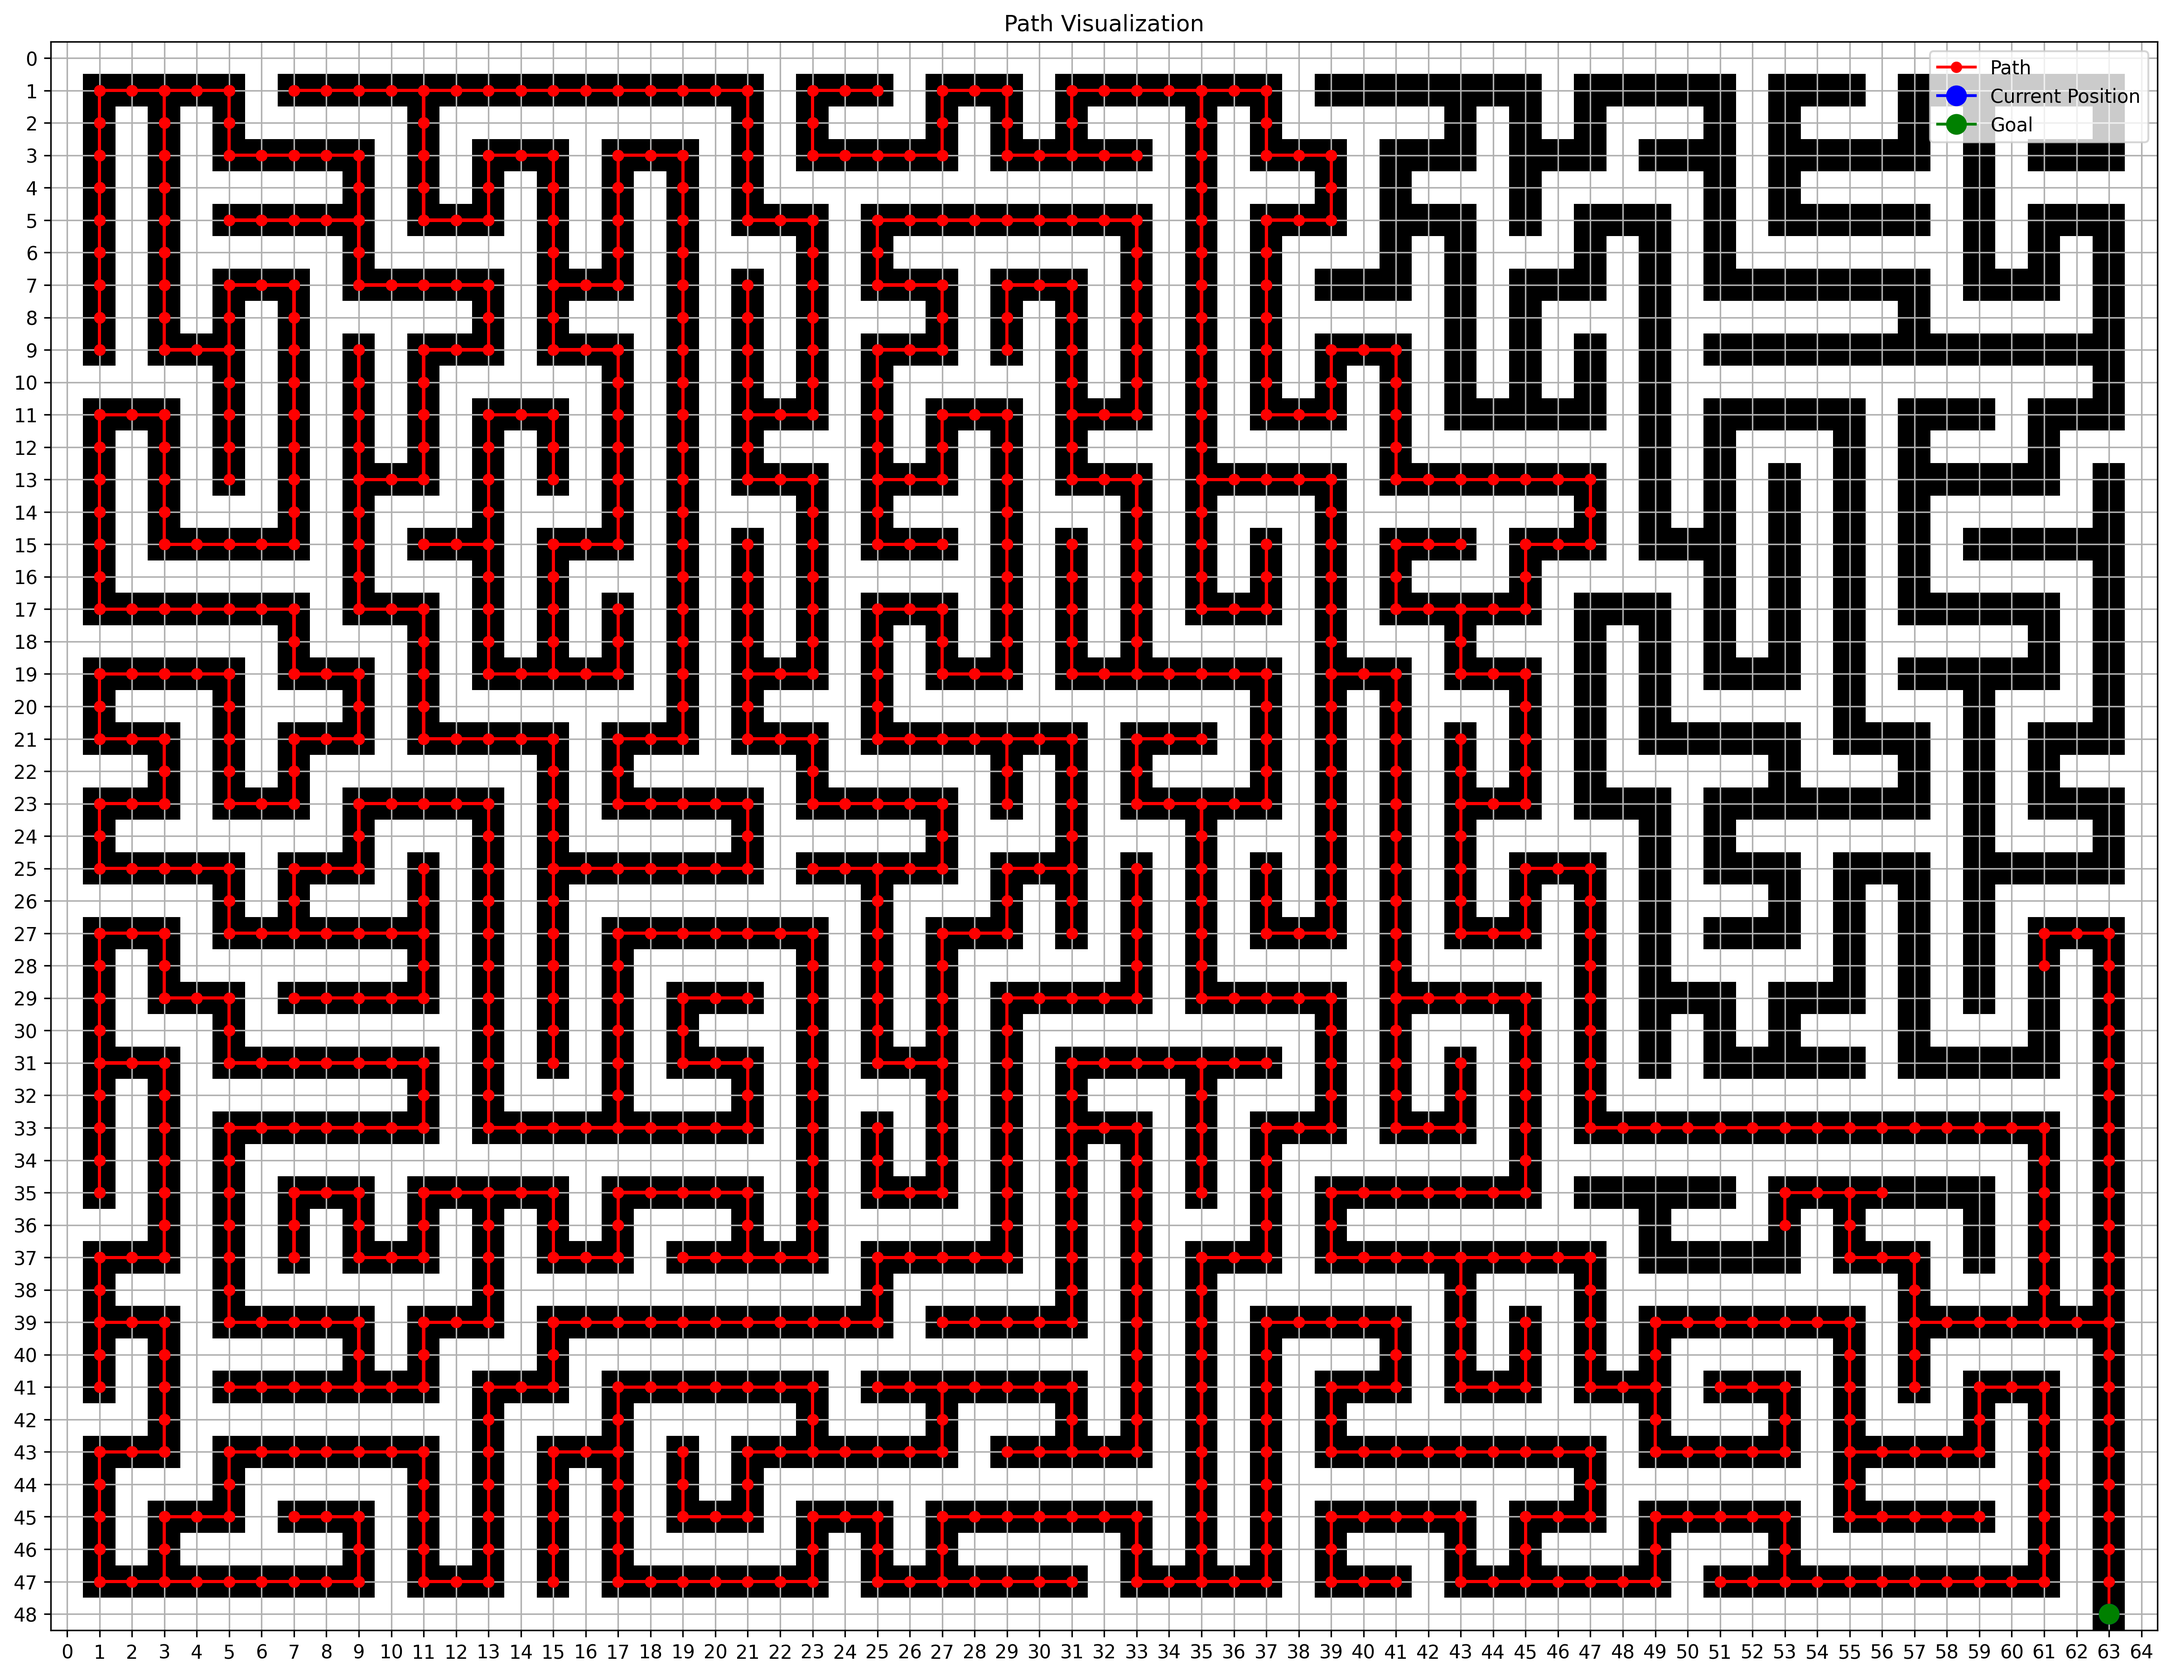
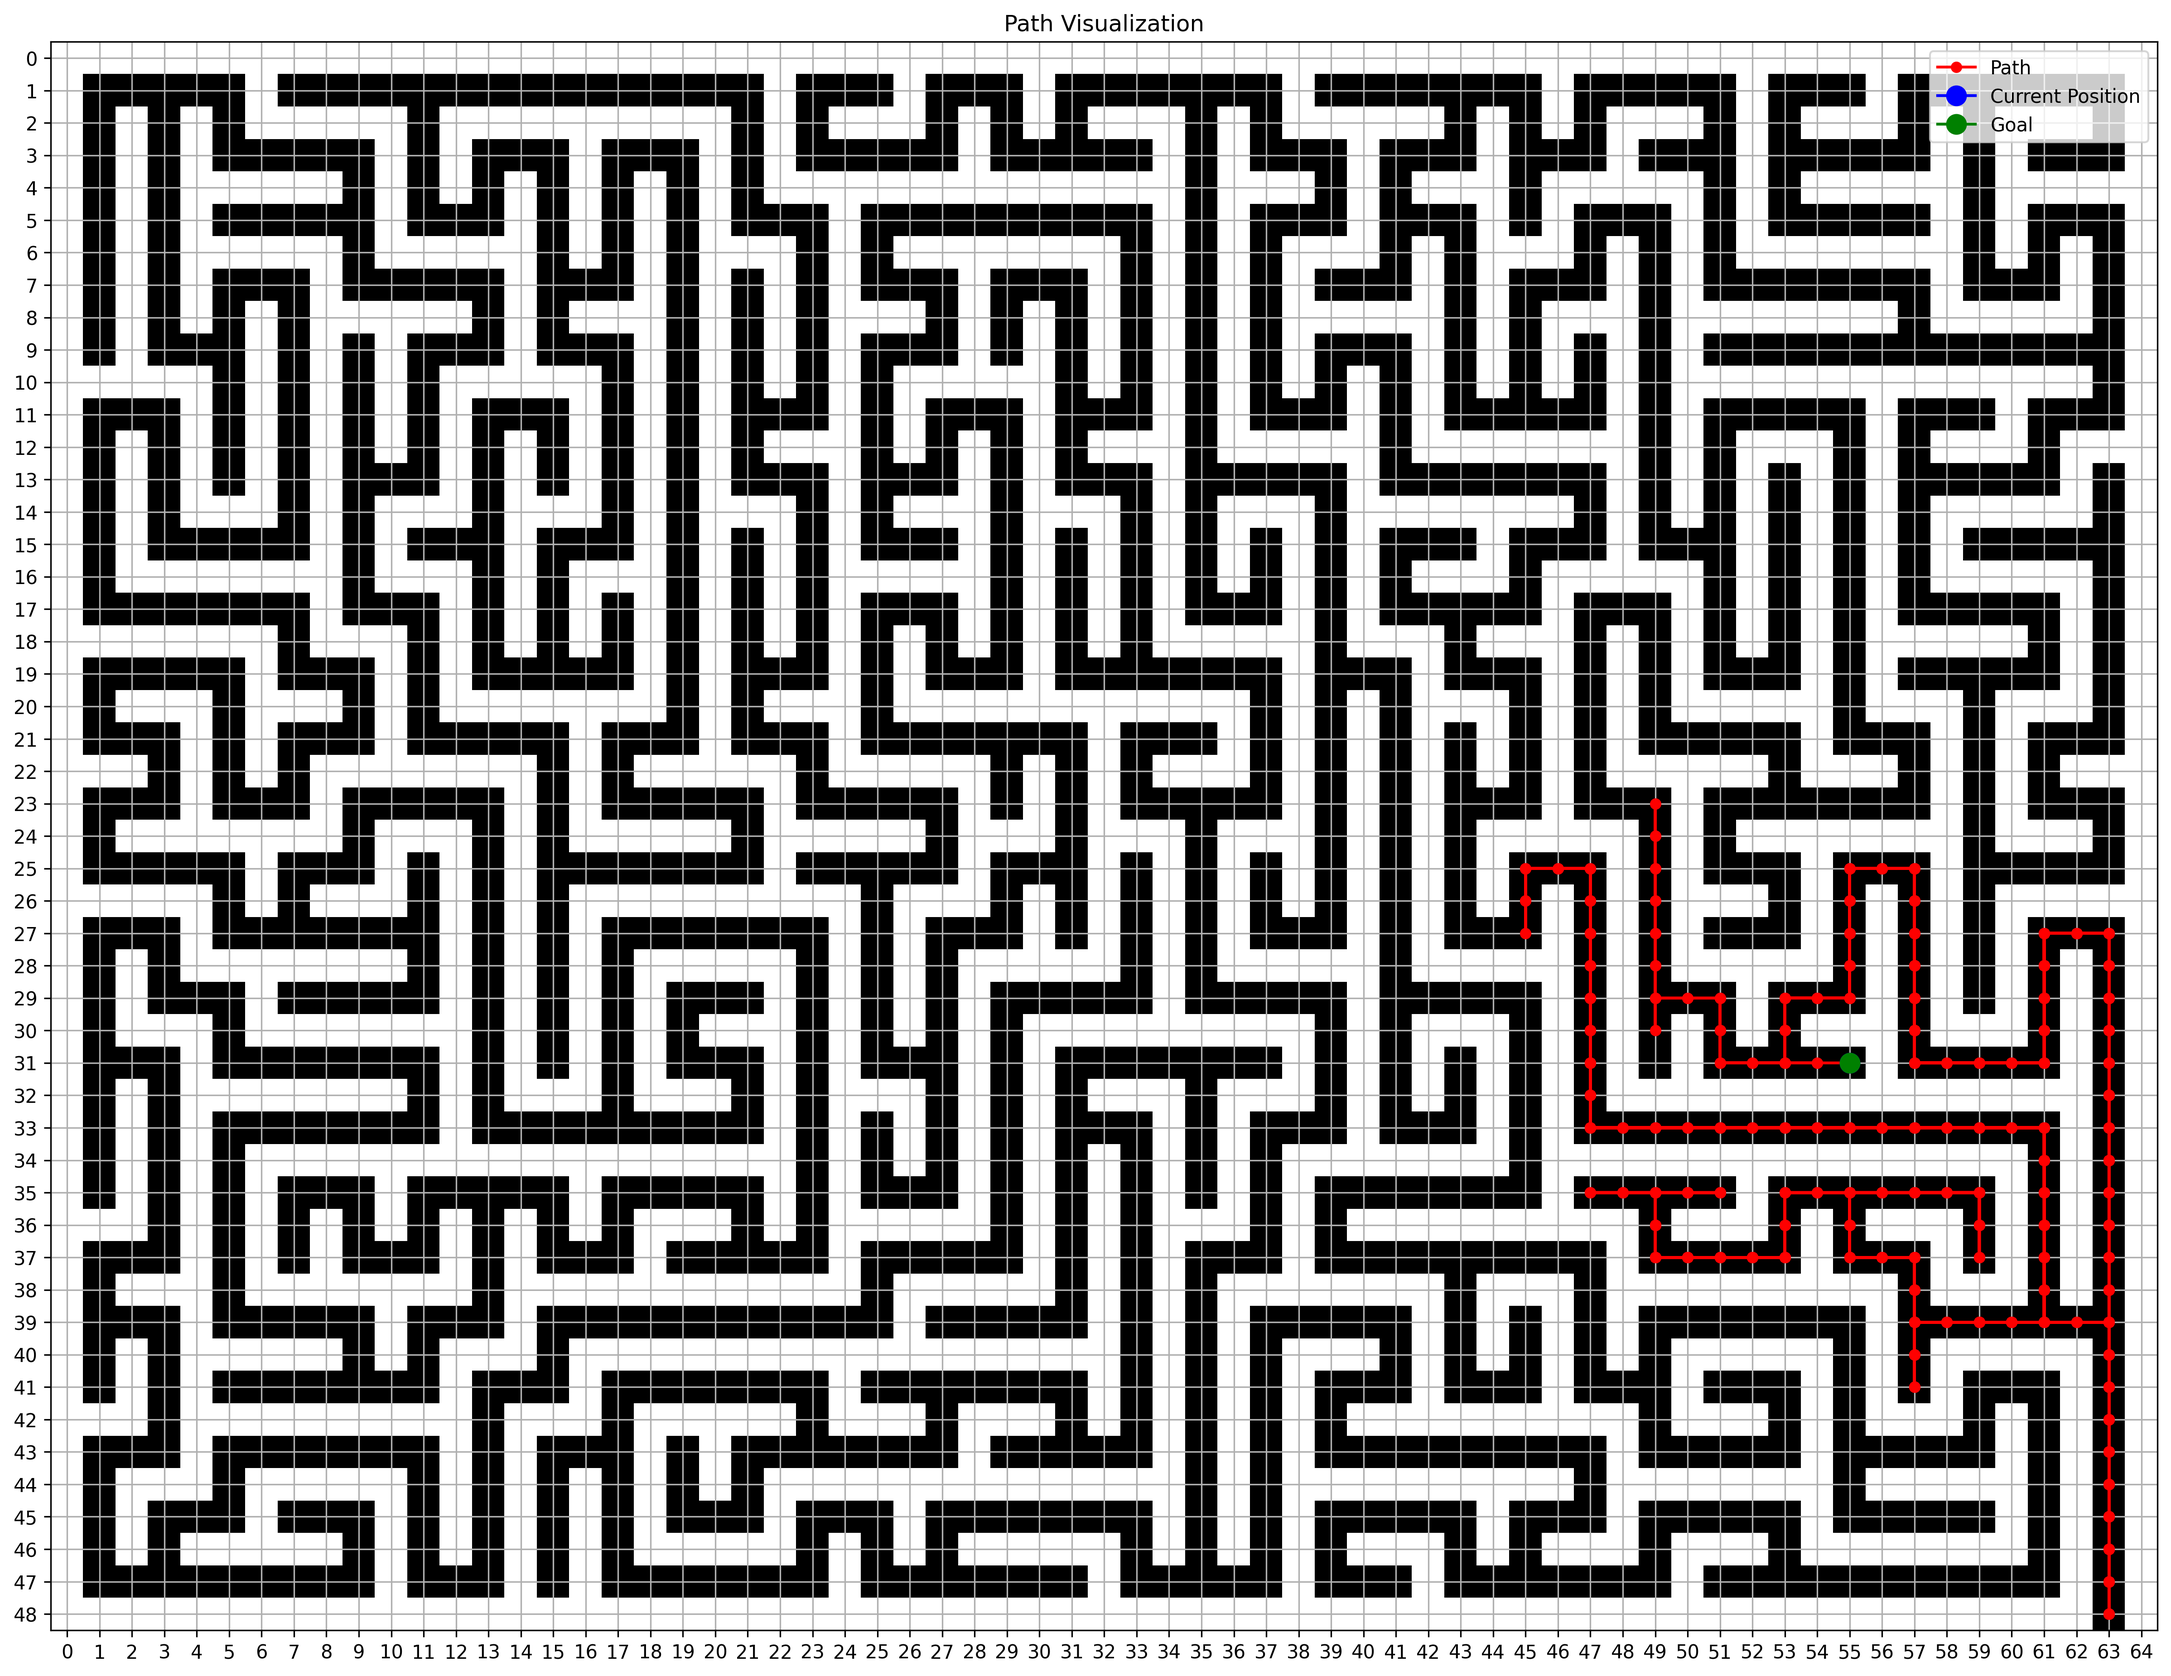
deleted:    Introduction to Machine Learning and Neural Networks/Problem8_Maze_RL/GUI.py 	deleted:    Introduction to Machine Learning and Neural Networks/Problem8_Maze_RL/Qlearning.py 	modified:   IntroductiontoMachineLearningandNeuralNetworks/Problem8_Maze_RL/GUI.py 	modified:   IntroductiontoMach

diff --git a/IntroductiontoMachineLearningandNeuralNetworks/Problem8_Maze_RL/GUI.py b/IntroductiontoMachineLearningandNeuralNetworks/Problem8_Maze_RL/GUI.py
@@ -4,23 +4,93 @@ import random
 import tkinter as tk
 from tkinter import messagebox
 from Qlearning import *
+from matplotlib.backends.backend_tkagg import FigureCanvasTkAgg
+
+# GUI Class
+class MazeApp:
+    def __init__(self, master):
+        self.master = master
+        master.title("Maze Solver")
+        
+        maze = load_maze_from_txt('IntroductiontoMachineLearningandNeuralNetworks\Problem8_Maze_RL\mazeArray.txt')
+        self.maze = np.array(maze)
+        self.start = (48, 63)  # Start position
+
+        # 创建左侧的画布用于显示迷宫
+        self.canvas_frame = tk.Frame(master)
+        self.canvas_frame.pack(side=tk.LEFT)
+
+        self.figure, self.ax = plt.subplots(figsize=(8, 5))
+        self.canvas = FigureCanvasTkAgg(self.figure, master=self.canvas_frame)
+        self.canvas.get_tk_widget().pack()
+
+        # 创建右侧的输入框和按钮
+        self.input_frame = tk.Frame(master)
+        self.input_frame.pack(side=tk.RIGHT)
+
+        self.label = tk.Label(self.input_frame, text="Enter goal coordinates (row, col):")
+        self.label.pack()
+
+        self.entry_row = tk.Entry(self.input_frame)
+        self.entry_row.pack()
+        self.entry_col = tk.Entry(self.input_frame)
+        self.entry_col.pack()
+
+        self.solve_button = tk.Button(self.input_frame, text="Solve", command=self.solve)
+        self.solve_button.pack()
+
+        self.result_label = tk.Label(self.input_frame, text="")
+        self.result_label.pack()
+
+        self.render_maze()
+
+    def solve(self):
+        try:
+            goal_x = int(self.entry_row.get())
+            goal_y = int(self.entry_col.get())
+            
+            goal = (goal_x, goal_y)
+            print(goal)
+
+            # 检查目标坐标是否在迷宫范围内
+            if not (0 <= goal[0] < self.maze.shape[0] and 0 <= goal[1] < self.maze.shape[1]):
+                raise ValueError("The goal coordinates are out of bounds!")
+            
+            # 检查目标位置是否为墙
+            if self.maze[goal[0], goal[1]] == 1:
+                raise ValueError("The goal is a wall!")
+            # 调用 Q-learning 算法
+            
+            env = MazeEnv(self.maze, self.start, goal)
+            q_table = q_learning(env)
+            path = generate_path(env, q_table)
+            print("finish q learning")
+            # 调用 render 函数
+            self.render_maze(path, goal)
+            # 显示结果
+            if path and path[-1] == goal:
+                env.history = path
+                env.render(goal)
+            else:
+                self.result_label.config(text="Cannot reach the goal.")
+        except Exception as e:
+            messagebox.showerror("Error", str(e))
+    
+    def render_maze(self, path=None, goal=None):
+        self.ax.clear()  # 清除之前的图像
+        self.ax.imshow(self.maze, cmap="hot", interpolation="nearest")
+        if path:
+            for step in path:
+                self.ax.plot(step[1], step[0], color="red", markersize=4, marker="o")
+            if goal:
+                self.ax.plot(goal[1], goal[0], color="green", marker="o", markersize=6, label="Goal")
+
+        self.ax.set_title("Maze Environment")
+        self.ax.axis('on')  # 隐藏坐标轴
+        self.canvas.draw()  # 刷新画布
+        print("finish printing")
 
 if __name__ == "__main__":
-    # Define maze (0 = free, 1 = wall)
-    maze = load_maze_from_txt('Introduction to Machine Learning and Neural Networks\Problem8_Maze_RL\mazeArray.txt')
-    print(len(maze), len(maze[0]))
-    maze = np.array(maze)
-
-    goal = (1, 1)
-    start = (48, 63)
-
-    env = MazeEnv(maze, start, goal)
-    q_table = q_learning(env, episodes=5000)
-
-    path = generate_path(env, q_table)
-
-    # Visualize the path
-    print("Path taken:", path)
-    for step in path:
-        env.current_position = step
-        env.render()
+    root = tk.Tk()
+    app = MazeApp(root)
+    root.mainloop()

diff --git a/IntroductiontoMachineLearningandNeuralNetworks/Problem8_Maze_RL/Qlearning.py b/IntroductiontoMachineLearningandNeuralNetworks/Problem8_Maze_RL/Qlearning.py
@@ -1,6 +1,8 @@
 import numpy as np
 import matplotlib.pyplot as plt
 from matplotlib.colors import ListedColormap
+from tqdm import tqdm
+import sys, os
 import random
 
 class MazeEnv:
@@ -24,7 +26,7 @@ class MazeEnv:
             y += 1
 
         if 0 <= x < self.maze.shape[0] and 0 <= y < self.maze.shape[1] and self.maze[x, y] == 0:
-            print(f"Moving to ({x}, {y})")
+            # print(f"Moving to ({x}, {y})")
             self.current_position = (x, y)
             self.history.append(self.current_position)  # 记录历史位置
 
@@ -75,8 +77,8 @@ class MazeEnv:
 # Q-Learning Implementation
 def q_learning(env, episodes=1000, alpha=0.1, gamma=0.9, epsilon=0.1, render_interval=100):
     q_table = np.zeros((env.maze.shape[0], env.maze.shape[1], len(env.action_space)))
-
-    for episode in range(episodes):
+    
+    for episode in tqdm(range(episodes), file=sys.stdout, desc="Training"):
         state = env.reset()
         done = False
 
@@ -100,7 +102,6 @@ def q_learning(env, episodes=1000, alpha=0.1, gamma=0.9, epsilon=0.1, render_int
 
         # Render the environment at intervals
         if episode % render_interval == 0:
-            print(f"Episode {episode}")
             env.render(episode, if_save=True)
 
     return q_table
